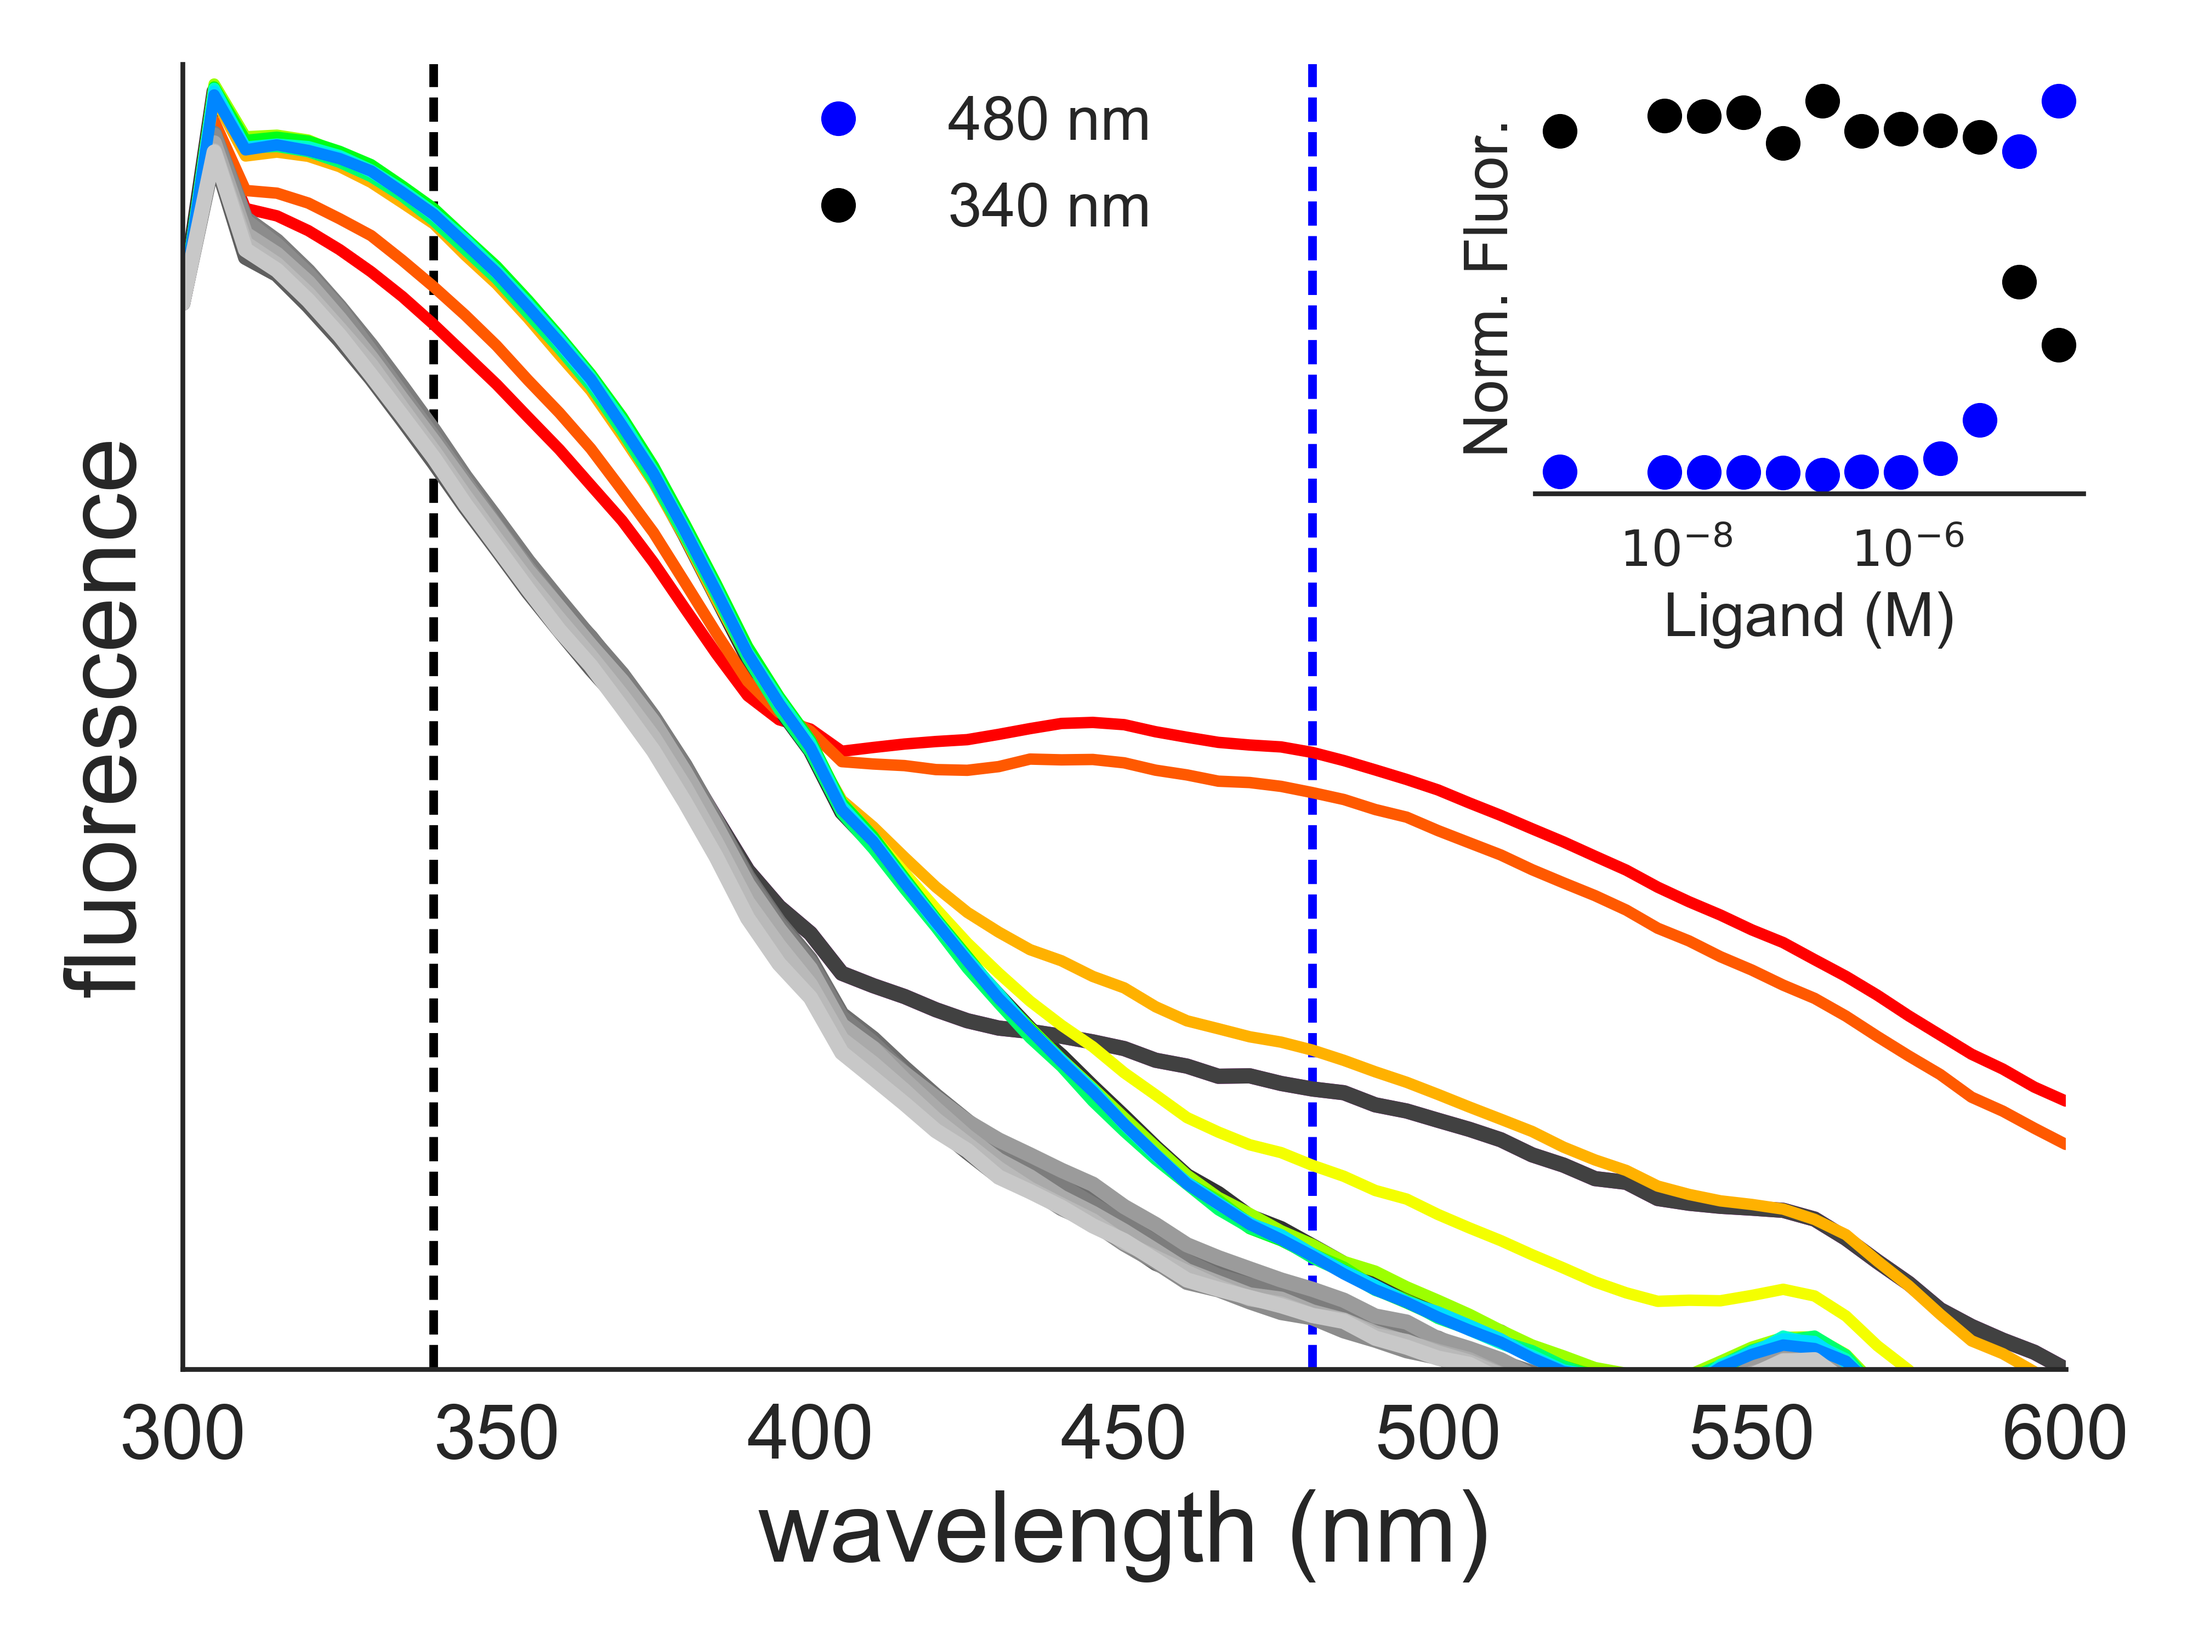
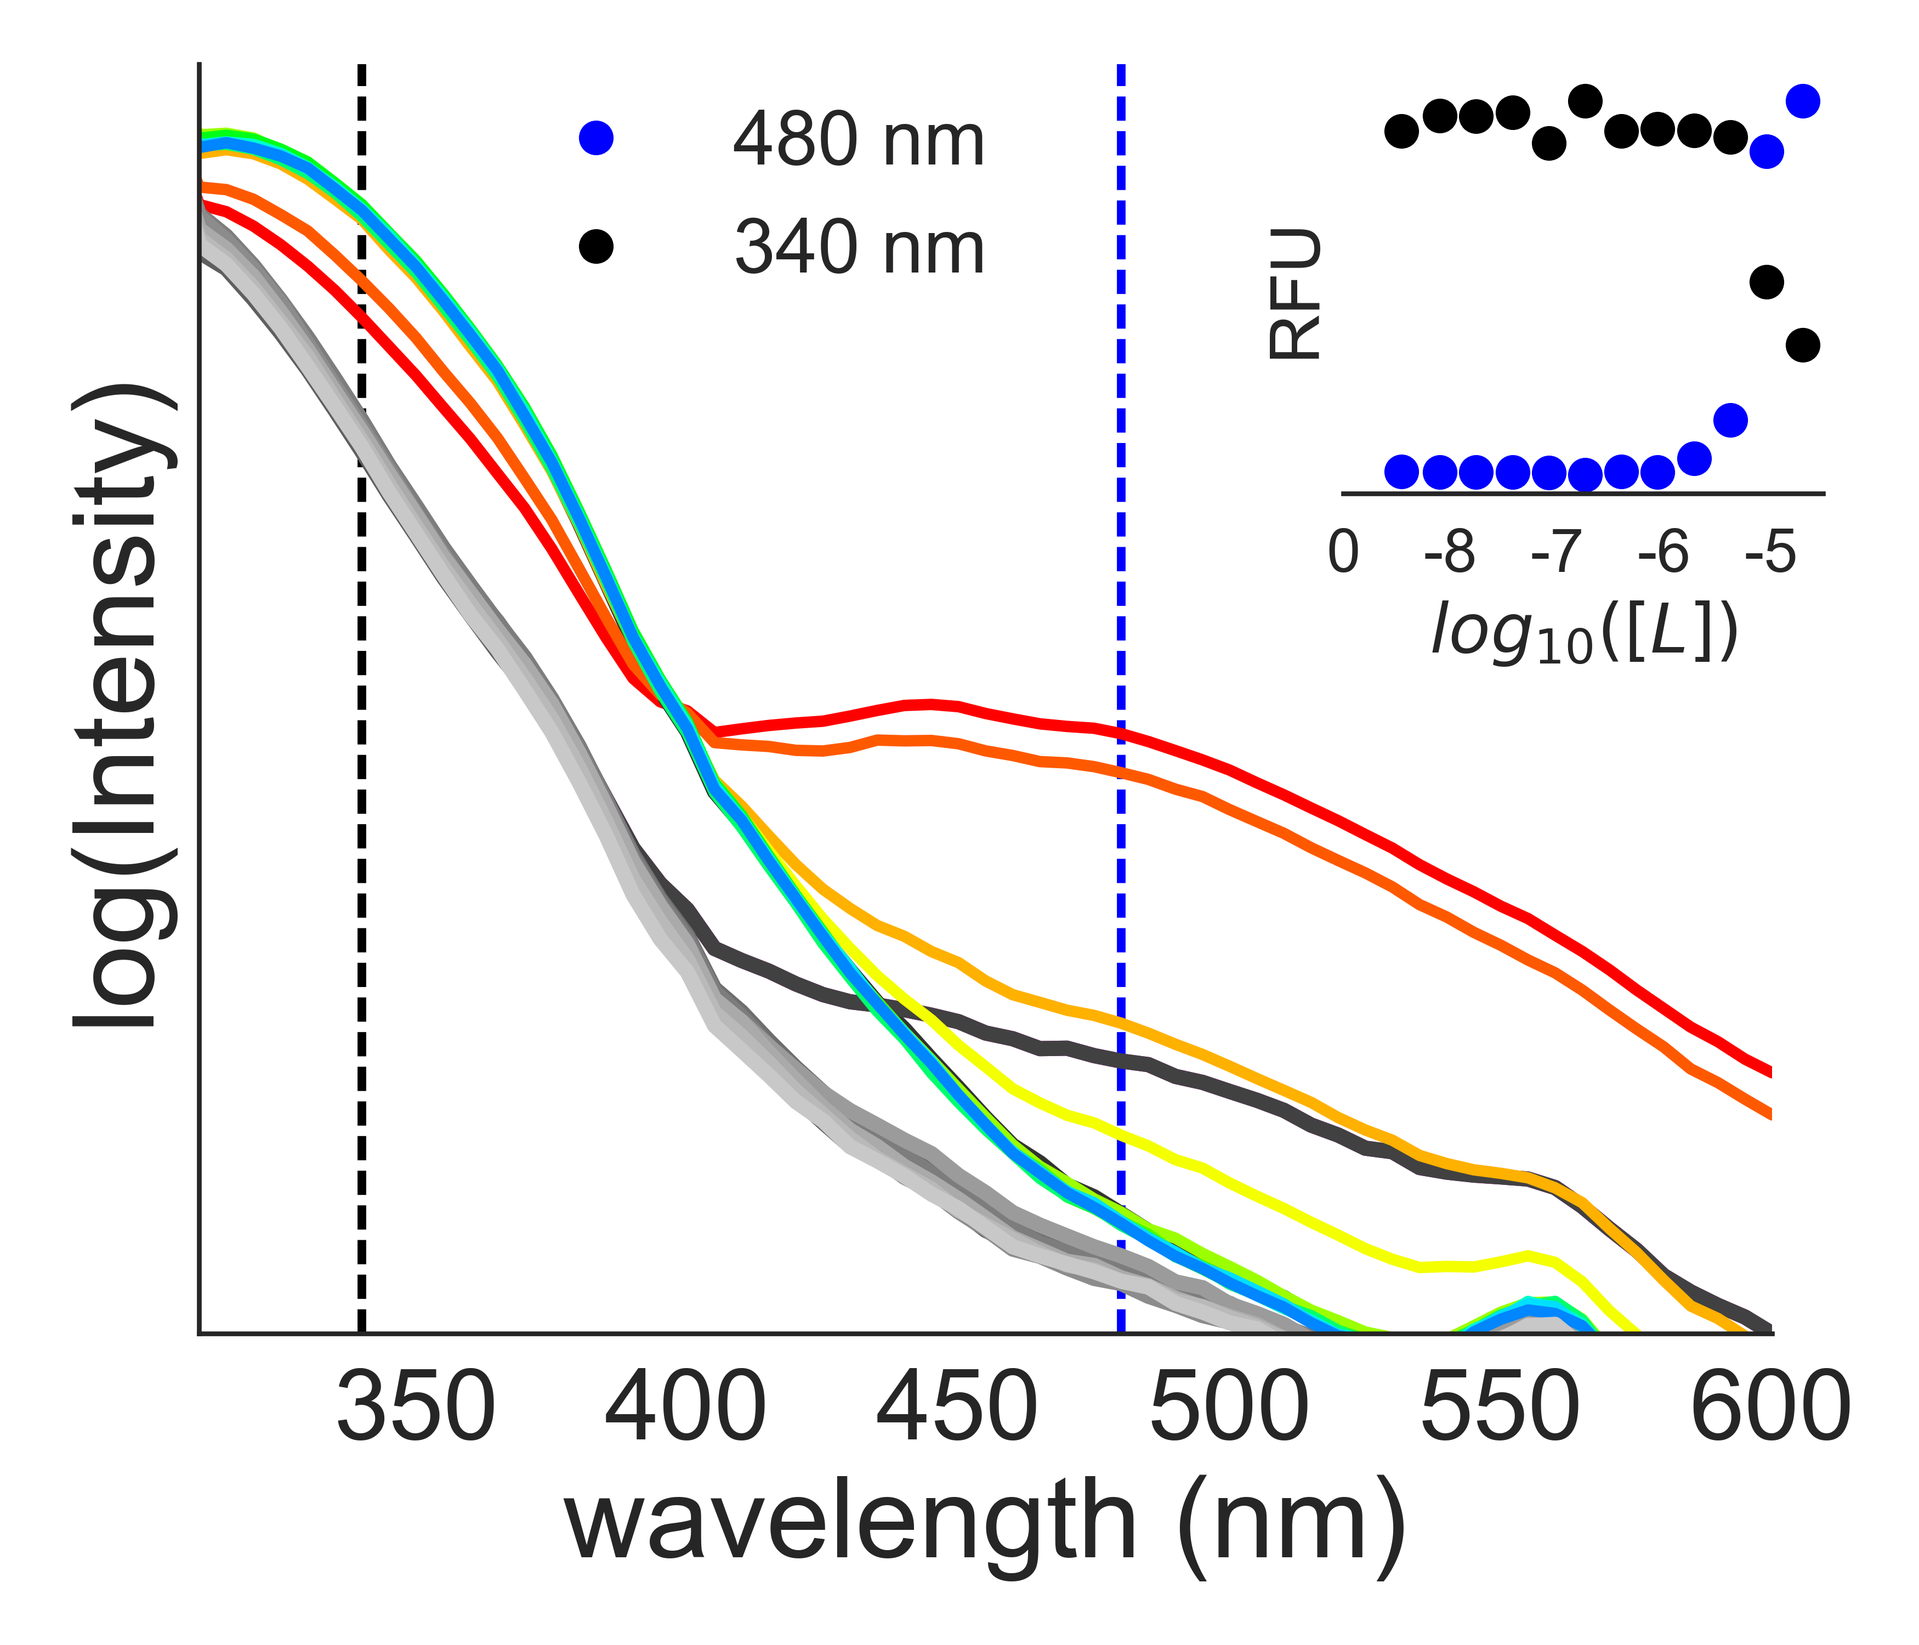
updated spectra png files and script

diff --git a/figures/Figure1/generate_spectra_figures.py b/figures/Figure1/generate_spectra_figures.py
@@ -5,6 +5,7 @@ from lxml import etree
 import pandas as pd
 import matplotlib.cm as cm
 import matplotlib.pyplot as plt
+import numpy as np
 
 import seaborn as sns
 sns.set(style='white')
@@ -64,7 +65,7 @@ def plot_spectra_grid_advanced_inset(file_set,protein,ligands,ligand,section,yli
     lines = lines
     
     # plot the spectra
-    fig = plt.figure(figsize=(8,6));
+    fig = plt.figure(figsize=(7,6));
     ax = df['fluorescence'].iloc[:,12].plot(ylim=(-10,ylim),legend=False, linewidth=4,color='m',logy=True); 
     ax.axvline(x=lines[0],color='black',linestyle='--');
     ax.axvline(x=lines[1],color='blue',linestyle='--');
@@ -73,10 +74,10 @@ def plot_spectra_grid_advanced_inset(file_set,protein,ligands,ligand,section,yli
         df['fluorescence'].iloc[:,11+i].plot(legend=False, linewidth=4,c=cm.gray(i*15+50),logy=True,ax = ax, fontsize =20);
     sns.despine()
     plt.yticks([])
-    plt.xticks(fontsize=20)
-    plt.xlim(300,600)
-    plt.xlabel('wavelength (nm)', fontsize=26)
-    plt.ylabel('fluorescence', fontsize=26)
+    plt.xticks(fontsize=26)
+    plt.xlim(310,600)
+    plt.xlabel('wavelength (nm)', fontsize=30)
+    plt.ylabel('log(Intensity)', fontsize=30)
 #    plt.text(550,0.9*ylim,"lines=%s"%lines,color='0.7')
 #    plt.title(title)
     plt.tight_layout();
@@ -99,15 +100,17 @@ def plot_spectra_grid_advanced_inset(file_set,protein,ligands,ligand,section,yli
     plt.semilogx(Lstated,difference_280_480_normalized,color="blue",marker='o',linestyle='None',label='%s nm'%lines[1]);
     plt.semilogx(Lstated,difference_280_340_normalized,color="black",marker='o',linestyle='None',label='%s nm'%lines[0]);
     plt.yticks([])
-    plt.xlabel('Ligand (M)', fontsize=16);
-    plt.ylabel('Norm. Fluor.', fontsize=16);
-    plt.legend(loc=0,bbox_to_anchor=(-0.6 , 1.1), fontsize=16);
+    x_inset_labels = [0,-8,-7,-6,-5]
+    plt.xticks([1e-9,1e-8,1e-7,1e-6,1e-5], x_inset_labels,fontsize=16)
+    plt.xlabel('$log_{10}([L])$', fontsize=18);
+    plt.ylabel('RFU', fontsize=18);
+    plt.legend(loc=0,bbox_to_anchor=(-0.6 , 1.1), fontsize=20);
     a.spines['top'].set_visible(False)
     a.spines['right'].set_visible(False)
     a.spines['left'].set_visible(False)
     a.spines['left'].set_smart_bounds(True)
 
-Lstated = [20.0e-6,9.15e-6,4.18e-6,1.91e-6,0.875e-6,0.4e-6,0.183e-6,0.0837e-6,0.0383e-6,0.0175e-6,0.008e-6,0.001e-6]
+Lstated = [20.0e-6,9.15e-6,4.18e-6,1.91e-6,0.875e-6,0.4e-6,0.183e-6,0.0837e-6,0.0383e-6,0.0175e-6,0.008e-6,0.0035e-6]
 
 ylim = 500000
 lines = [340,480]
@@ -116,39 +119,48 @@ file_set = {'Src': "../../data/spectra/Src/2016-03-09/Src_Gef_20160309_163417.xm
 ligands = ['Gefitinib']
 plot_spectra_grid_advanced_inset(file_set,'Src',ligands,'Gefitinib',1,ylim,lines,Lstated)
 plt.savefig('Src-Gefitinib-log-inset.png',dpi=500)
+plt.savefig('Src-Gefitinib-log-inset.pdf')
 
 file_set = {'Abl': "../../data/spectra/Abl/2016-03-11/Abl_D382N_Gef_20160311_152340.xml"}
 ligands = ['Gefitinib']
 plot_spectra_grid_advanced_inset(file_set,'Abl',ligands,'Gefitinib',1,ylim,lines,Lstated)
 plt.savefig('Abl-Gefitinib-log-inset.png',dpi=500)
+plt.savefig('Abl-Gefitinib-log-inset.pdf')
 
 file_set = {'p38': "../../data/spectra/p38/2016-03-07/p38_Gef_20160307_175343.xml"}
 ligands = ['Gefitinib']
 plot_spectra_grid_advanced_inset(file_set,'p38',ligands,'Gefitinib',1,ylim,lines,Lstated)
 plt.savefig('p38-Gefitinib-log-inset.png',dpi=500)
+plt.savefig('p38-Gefitinib-log-inset.pdf')
 
 file_set = {'Src': "../../data/spectra/Src/2016-03-09/Src_Bos_20160309_143920.xml"}
 ligands = ['Bosutinib']
 plot_spectra_grid_advanced_inset(file_set,'Src',ligands,'Bosutinib',1,ylim,lines,Lstated)
 plt.savefig('Src-Bosutinib-log-inset.png',dpi=500)
+plt.savefig('Src-Bosutinib-log-inset.pdf')
 
 file_set = {'Abl': "../../data/spectra/Abl/2016-03-11/Abl_D382N_Bos_20160311_132205.xml"}
 ligands = ['Bosutinib']
 plot_spectra_grid_advanced_inset(file_set,'Abl',ligands,'Bosutinib',1,ylim,lines,Lstated)
 plt.savefig('Abl-Bosutinib-log-inset.png',dpi=500)
+plt.savefig('Abl-Bosutinib-log-inset.pdf')
 
 file_set = {'p38': "../../data/spectra/p38/2016-03-07/p38_Bos_20160307_160155.xml"}
 ligands = ['Bosutinib']
 plot_spectra_grid_advanced_inset(file_set,'p38',ligands,'Bosutinib',1,ylim,lines,Lstated)
 plt.savefig('p38-Bosutinib-log-inset.png',dpi=500)
+plt.savefig('p38-Bosutinib-log-inset.pdf')
 
 file_set = {'p38': "../../data/spectra/p38/2016-03-30/p38_Pon_20160330_160326.xml"}
 ligands = ['Ponatinib']
 plot_spectra_grid_advanced_inset(file_set,'p38',ligands,'Ponatinib',1,ylim,lines,Lstated)
 plt.savefig('p38-Ponatinib-log-inset.png',dpi=500)
+plt.savefig('p38-Ponatinib-log-inset.pdf')
 
 lines = [320,360]
 file_set = {'p38': "/Users/hansons/Documents/Desktop-MOVE/new_compounds/p38_Paz_20170119_164846.xml"}
 ligands = ['Pazopanib']
 plot_spectra_grid_advanced_inset(file_set,'p38',ligands,'Pazopanib',1,ylim,lines,Lstated)
 plt.savefig('p38-Pazopanib-log-inset-320-360.png',dpi=500)
+plt.savefig('p38-Pazopanib-log-inset-320-360.pdf')
+
